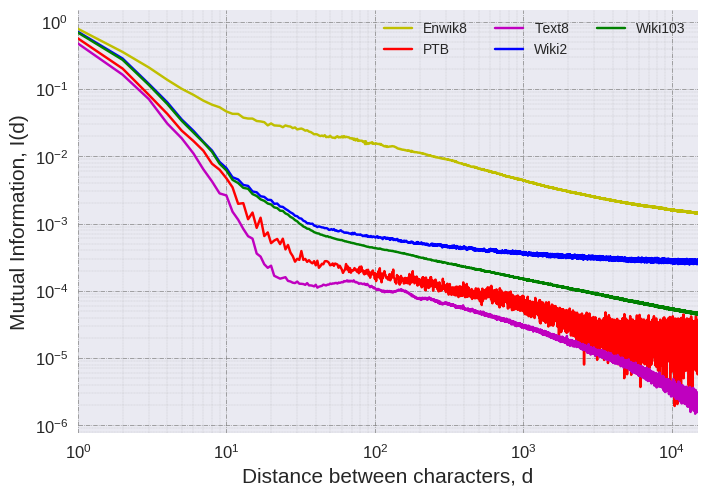
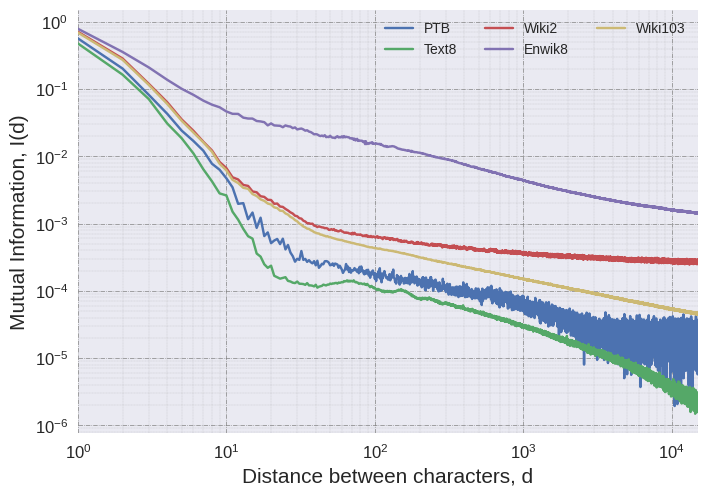
Up

diff --git a/paper_related/others/plot_letters.py b/paper_related/others/plot_letters.py
@@ -49,18 +49,17 @@ for filename in filenames:
     all_hxy.append(Hxy.tolist())
 
 with plt.style.context(('seaborn')):
-
-    plt.loglog(np.arange(1,len(all_mi[0])+1), all_mi[0], "y-", label="Enwik8")
-    plt.loglog(np.arange(1,len(all_mi[1])+1), all_mi[1], "r-", label="PTB")
-    plt.loglog(np.arange(1,len(all_mi[2])+1), all_mi[2], 'm-', label="Text8")
-    plt.loglog(np.arange(1,len(all_mi[3])+1), all_mi[3], "b-", label="Wiki2")
-    plt.loglog(np.arange(1,len(all_mi[4])+1), all_mi[4], "g-", label="Wiki103")
+    ax = plt.axes()
+    plt.loglog(np.arange(1,len(all_mi[1])+1), all_mi[1], label="PTB")
+    plt.loglog(np.arange(1,len(all_mi[2])+1), all_mi[2], label="Text8")
+    plt.loglog(np.arange(1,len(all_mi[3])+1), all_mi[3], label="Wiki2")
+    plt.loglog(np.arange(1,len(all_mi[0])+1), all_mi[0], label="Enwik8")
+    plt.loglog(np.arange(1,len(all_mi[4])+1), all_mi[4], label="Wiki103")
 
     plt.tick_params(labelsize='large', width=5)
     plt.grid(True)
     plt.grid(which='major', linestyle='-.', linewidth='0.5', color='grey')
     plt.grid(which='minor', linestyle=':', linewidth='0.2', color='grey')
-    ax = plt.axes()
     ax.set_xlim(1, len(all_mi[0]))
     ax.set_xlabel('Distance between characters, d', fontsize=15)
     ax.set_ylabel('Mutual Information, I(d)', fontsize=15)
